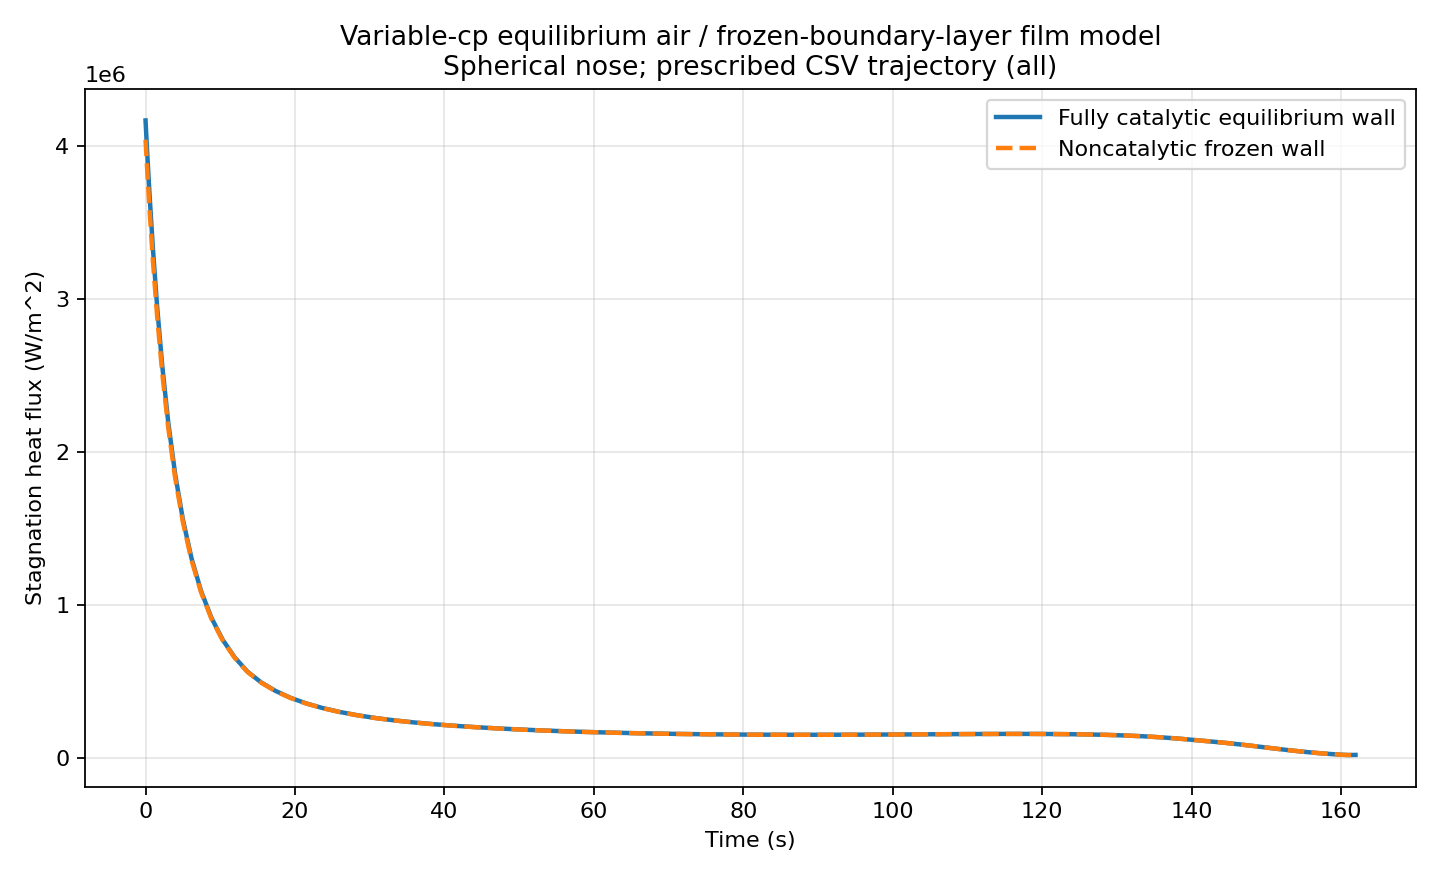
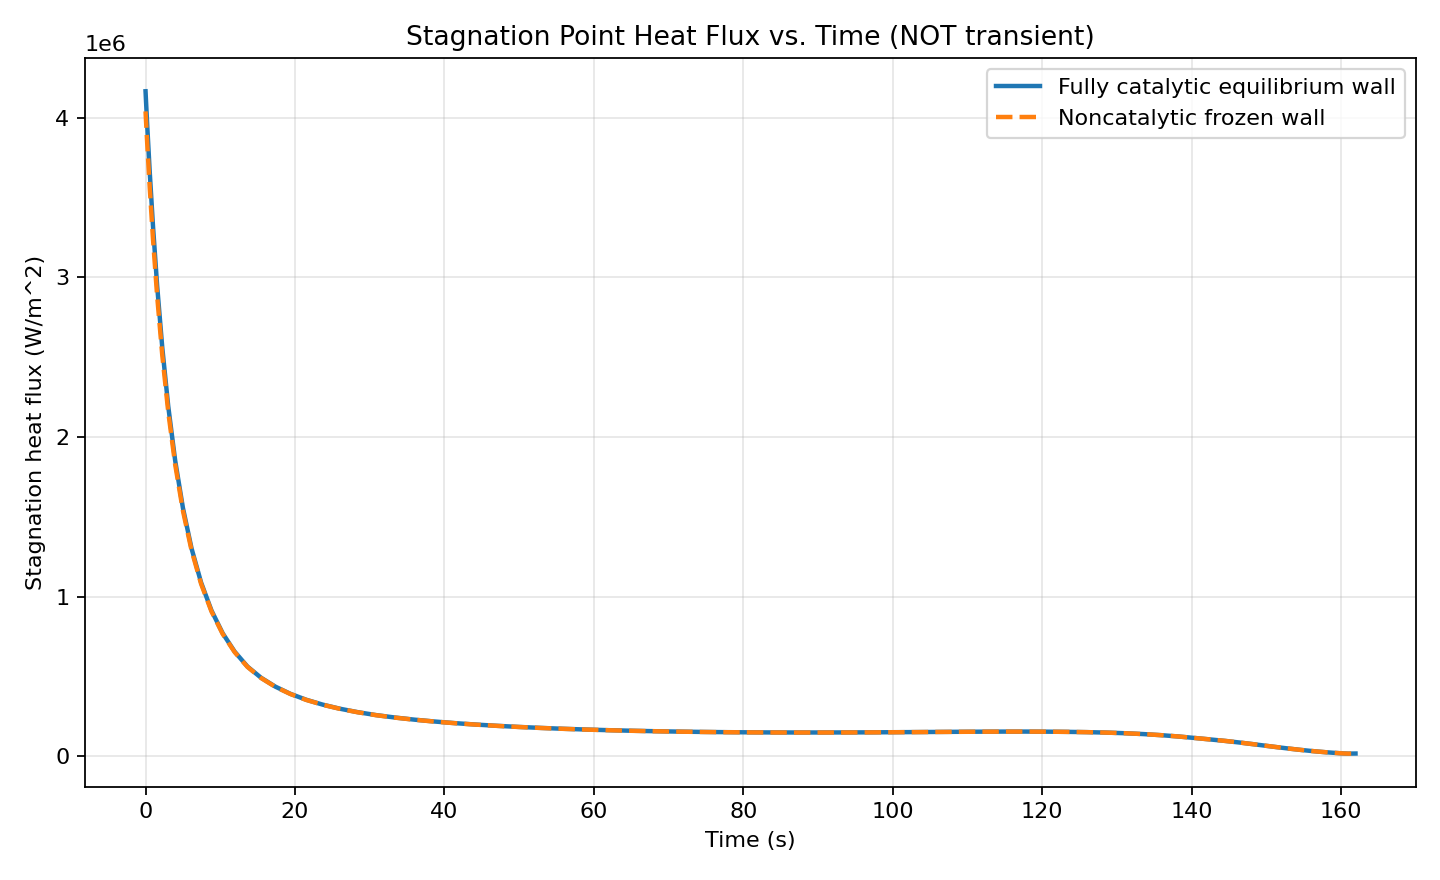
just fixing formatting
plot titles + commenting updated

diff --git a/aerothermal.py b/aerothermal.py
@@ -5,39 +5,13 @@ By: Jonathan Cats
 INSTALL:
    cantera, numpy, scipy, matplotlib, ambiance, pandas
 
-TRAJECTORY CONTRACT
-Required CSV columns: Time_s, Altitude_m, Speed_mps.
-The units in those headers are used literally: seconds, metres, metres/second.
-Speed_mps is assumed to be speed relative to the undisturbed air. This file
-has no wind model and does not convert ground/inertial speed to airspeed.
-Altitude_m is passed unchanged to the existing standard-atmosphere model;
-no geometric/geopotential or reference-datum conversion is performed.
-Time must be strictly increasing in the original CSV row order. Altitude
-need not be monotonic: climb and descent are both preserved. Nothing is
-sorted, resampled, smoothed, extrapolated, or reintegrated. All CSV samples
-are used by default. --segment descent starts at the greatest sampled
-altitude and retains every subsequent row; original times are not reset.
-
-Optional Mach, Range_km, FlightPath_deg, Alpha_deg, DynamicPressure_kPa,
-LiftLoad_g, CL, and CD columns are retained as source_* output fields.
-CSV Mach is a reference only. The heating model uses Mach = Speed_mps /
-local frozen sound speed from its existing air model. Speed_mps is never
-changed to force agreement with CSV Mach. CSV dynamic pressure, CL, CD,
-flight-path angle, and AoA do not drive another trajectory calculation.
-
-HOW TO READ THIS FILE
-1. load_trajectory_csv imports the prescribed time/altitude/speed samples.
-2. calculate_freestream_properties evaluates air at each imported altitude.
-3. solve_equilibrium_normal_shock calculates the compressed gas.
-4. solve_stagnation_edge_state calculates the gas at the nose edge.
-5. solve_wall_temperatures retains the original catalytic/noncatalytic model.
+Workflow
+1. load_trajectory_csv imports the time/altitude/speed samples.
+2. calculate_freestream_properties of air at each imported altitude (Cantera).
+3. solve_equilibrium_normal_shock: calculates the compressed gas properties (Cantera + scipy).
+4. solve_stagnation_edge_state: isentropically decelerates the post-shock gas to the stagnation-point boundary-layer edge (Cantera)
+5. solve_wall_temperatures: Fay-Riddell Radiative Equillibrium (stefan boltzman)
 6. save_results and plot_results write the profiles and figures.
-
-PHYSICS RETAINED FROM aerothermal_fixed.py
-Cantera supplies variable specific heats and equilibrium neutral-air chemistry.
-The shock conserves mass, momentum, and total energy; gas then decelerates
-isentropically to the stagnation edge. Wall heating retains the original
-Fay-Riddell-prefactor / frozen-boundary-layer film analogy. Lewis number remains 1.4.
 
 LIMITS
 200-5000 K neutral-gas model; no finite-rate chemistry, ionization, thermal
@@ -941,8 +915,11 @@ def plot_results(profile_arrays, options):
                   linestyle="--", linewidth=2, label="Noncatalytic frozen wall")
         axes.set_xlabel(x_label)
         axes.set_ylabel(vertical_axis_label)
-        axes.set_title("Variable-cp equilibrium air / frozen-boundary-layer film model\n"
-                       f"Spherical nose; prescribed CSV trajectory ({options.segment})")
+        axes.set_title(
+            "Wall Temperature vs. Time (NOT transient)"
+            if key == "wall_temperature_K_"
+            else "Stagnation Point Heat Flux vs. Time (NOT transient)"
+        )
         # Only reverse an altitude axis for a consistently descending segment.
         if not use_time and np.all(np.diff(x) <= 0) and np.any(np.diff(x) < 0):
             axes.invert_xaxis()
